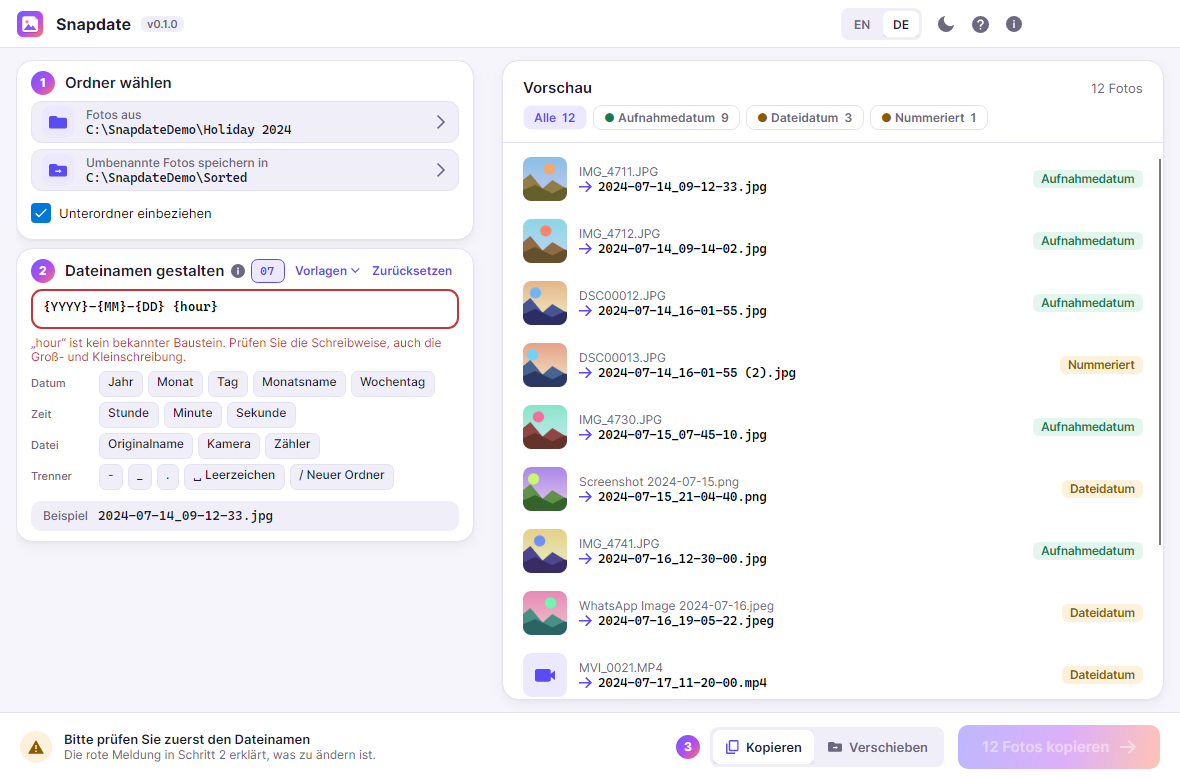
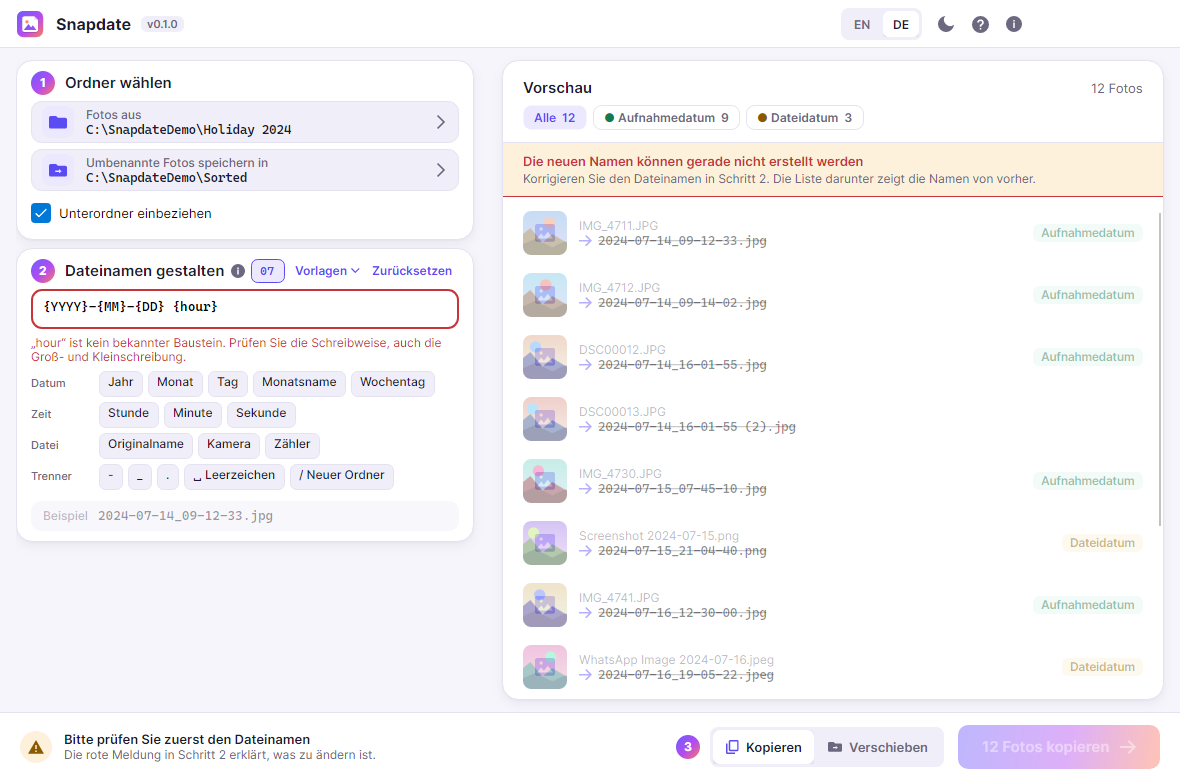
fix(preview): mark the preview as outdated while the pattern is invalid (#9)
Dim the list, strike through the stale names and show a red note while the
file name pattern cannot be built; hide the Numbered tab until it is valid
again. Documentation screenshots show the new state.

diff --git a/tests/Snapdate.App.Tests/Headless/MainWindowTests.cs b/tests/Snapdate.App.Tests/Headless/MainWindowTests.cs
@@ -22,6 +22,9 @@ public sealed class MainWindowTests(HeadlessSession headless)
             .Where(t => t.Length > 0)
             .ToList();
 
+    private static bool IsShown(Window window, string text) =>
+        window.GetLogicalDescendants().OfType<TextBlock>().Any(t => t.Text == text && t.IsEffectivelyVisible);
+
     private Task RunOnUi(Action action) =>
         headless.Session.Dispatch(action, TestContext.Current.CancellationToken);
 
@@ -103,6 +106,128 @@ public sealed class MainWindowTests(HeadlessSession headless)
         vm.ToggleThemeCommand.Execute(null);
 
         Assert.Equal(1, services.Theme.Toggles);
+    });
+
+    [Fact]
+    public Task Invalid_pattern_marks_the_preview_stale_until_the_pattern_is_valid_again() => RunOnUi(async () =>
+    {
+        using var temp = new TempFolder();
+        temp.Photo("camera/a.jpg", new DateTime(2024, 7, 14, 15, 32, 8));
+        temp.Photo("camera/b.png", new DateTime(2024, 7, 15, 8, 0, 0));
+        var target = temp.Combine("sorted");
+        Directory.CreateDirectory(target);
+        var vm = new TestServices().CreateViewModel();
+        vm.SourceFolder = temp.Combine("camera");
+        await vm.ScanCompletion;
+        vm.TargetFolder = target;
+        vm.Pattern.Text = "{YYYY}-{MM}-{DD}";
+        Assert.False(vm.IsPreviewStale);
+        Assert.Equal("2024-07-14.jpg", vm.VisibleItems[0].NewName);
+
+        vm.Pattern.Text = "{YYYY}-{nope}";
+
+        Assert.True(vm.IsPreviewStale);
+        Assert.True(vm.ShowList, "The list stays so the user keeps orientation.");
+        Assert.Equal(2, vm.CountAll);
+        Assert.False(vm.CanRun);
+
+        vm.Pattern.Text = "{YYYY}{MM}{DD}";
+
+        Assert.False(vm.IsPreviewStale);
+        Assert.Equal("20240714.jpg", vm.VisibleItems[0].NewName);
+        Assert.True(vm.CanRun);
+    });
+
+    [Fact]
+    public Task Stale_preview_shows_a_hint_and_drops_the_numbered_filter() => RunOnUi(async () =>
+    {
+        using var temp = new TempFolder();
+        temp.Photo("camera/a.jpg", new DateTime(2024, 7, 14, 15, 32, 8));
+        var vm = new TestServices().CreateViewModel();
+        vm.SourceFolder = temp.Combine("camera");
+        await vm.ScanCompletion;
+        vm.TargetFolder = temp.Combine("sorted");
+        vm.Filter = PreviewFilter.Renamed;
+        var window = new MainWindow { DataContext = vm };
+        window.Show();
+
+        vm.Pattern.Text = "{YYYY}-{nope}";
+        Dispatcher.UIThread.RunJobs();
+
+        Assert.Equal(PreviewFilter.All, vm.Filter);
+        Assert.Contains(vm.L.PreviewStaleTitle, VisibleTexts(window));
+        Assert.Contains(vm.L.PreviewStaleBody, VisibleTexts(window));
+
+        vm.Pattern.Text = "{YYYY}";
+        Dispatcher.UIThread.RunJobs();
+
+        Assert.False(IsShown(window, vm.L.PreviewStaleTitle));
+        window.Close();
+    });
+
+    [Fact]
+    public Task Stale_preview_follows_a_folder_change_and_empties_when_there_is_nothing_to_show() => RunOnUi(async () =>
+    {
+        using var temp = new TempFolder();
+        temp.Photo("one/a.jpg", new DateTime(2024, 7, 14, 15, 32, 8));
+        temp.Photo("two/b.jpg", new DateTime(2023, 1, 2, 3, 4, 5));
+        Directory.CreateDirectory(temp.Combine("empty"));
+        var vm = new TestServices().CreateViewModel();
+        vm.SourceFolder = temp.Combine("one");
+        await vm.ScanCompletion;
+        vm.TargetFolder = temp.Combine("sorted");
+        vm.Pattern.Text = "{YYYY}";
+        vm.Pattern.Text = "{YYYY}-{nope}";
+
+        vm.SourceFolder = temp.Combine("two");
+        await vm.ScanCompletion;
+
+        Assert.True(vm.IsPreviewStale);
+        Assert.Equal("2023.jpg", vm.VisibleItems.Single().NewName);
+
+        vm.SourceFolder = temp.Combine("empty");
+        await vm.ScanCompletion;
+
+        Assert.Empty(vm.VisibleItems);
+        Assert.Equal(0, vm.CountAll);
+        Assert.False(vm.IsPreviewStale);
+    });
+
+    [Fact]
+    public Task Stale_preview_hides_the_numbered_badge_on_rows() => RunOnUi(async () =>
+    {
+        using var temp = new TempFolder();
+        temp.Photo("one/a.jpg", new DateTime(2024, 7, 14, 15, 32, 8));
+        temp.Photo("one/b.jpg", new DateTime(2024, 7, 14, 15, 32, 8));
+        var vm = new TestServices().CreateViewModel();
+        vm.SourceFolder = temp.Combine("one");
+        await vm.ScanCompletion;
+        vm.TargetFolder = temp.Combine("sorted");
+        vm.Pattern.Text = "{YYYY}";
+        Assert.All(vm.VisibleItems, i => Assert.True(i.ShowBadge));
+
+        vm.Pattern.Text = "{nope}";
+
+        Assert.Contains(vm.VisibleItems, i => i.NewName.Contains("(2)"));
+        Assert.All(vm.VisibleItems, i => Assert.False(i.Badge == BadgeKind.Renamed && i.ShowBadge));
+    });
+
+    [Fact]
+    public Task Invalid_saved_pattern_at_startup_shows_a_stale_list_built_from_the_default_pattern() => RunOnUi(async () =>
+    {
+        using var temp = new TempFolder();
+        temp.Photo("one/a.jpg", new DateTime(2024, 7, 14, 15, 32, 8));
+        var services = new TestServices
+        {
+            Settings = new MemorySettings(new AppSettings { SourceFolder = temp.Combine("one"), Pattern = "{nope}" }),
+        };
+
+        var vm = services.CreateViewModel();
+        await vm.ScanCompletion;
+
+        Assert.True(vm.IsPreviewStale);
+        Assert.Equal("2024-07-14_15-32-08.jpg", vm.VisibleItems.Single().NewName);
+        Assert.False(vm.CanRun);
     });
 
     [Fact]

diff --git a/src/Snapdate.App/ViewModels/MainWindowViewModel.cs b/src/Snapdate.App/ViewModels/MainWindowViewModel.cs
@@ -8,6 +8,7 @@ using Snapdate.Application.Execution;
 using Snapdate.Application.Localization;
 using Snapdate.Application.Planning;
 using Snapdate.Application.Scanning;
+using Snapdate.Domain.Naming;
 using Snapdate.Domain.Planning;
 
 namespace Snapdate.App.ViewModels;
@@ -49,6 +50,7 @@ public sealed partial class MainWindowViewModel : ObservableObject
     private List<ScannedPhoto> _photos = [];
     private RenamePlan? _plan;
     private List<PreviewItemViewModel> _allItems = [];
+    private NamePattern? _lastValidPattern;
     private CancellationTokenSource? _scanCts;
     private CancellationTokenSource? _runCts;
     private ExecutionResult? _result;
@@ -193,6 +195,15 @@ public sealed partial class MainWindowViewModel : ObservableObject
     public bool ShowNoPhotos => SourceFolder is not null && Phase != Phase.Scanning && _photos.Count == 0;
 
     public bool ShowList => Phase != Phase.Scanning && _photos.Count > 0;
+
+    /// <summary>
+    /// True while the file name pattern is invalid: the list is kept (dimmed, so the user keeps their
+    /// orientation) but its "new names" come from the last valid pattern and must not look final.
+    /// </summary>
+    public bool IsPreviewStale => Pattern.HasError && ShowList;
+
+    /// <summary>Spoken text for the hint banner (screen readers read the Name of a live region).</summary>
+    public string PreviewStaleAnnouncement => $"{L.PreviewStaleTitle}. {L.PreviewStaleBody}";
 
     [ObservableProperty]
     public partial int ScanCount { get; private set; }
@@ -445,6 +456,7 @@ public sealed partial class MainWindowViewModel : ObservableObject
         OnPropertyChanged(nameof(TargetDisplay));
         OnPropertyChanged(nameof(ScanCountText));
         OnPropertyChanged(nameof(PhotosCountText));
+        OnPropertyChanged(nameof(PreviewStaleAnnouncement));
         OnPropertyChanged(nameof(AboutVersionText));
 
         if (Phase == Phase.Done && _result is not null)
@@ -588,20 +600,34 @@ public sealed partial class MainWindowViewModel : ObservableObject
         }
 
         var pattern = Pattern.Pattern;
-        if (pattern is not null && SourceFolder is not null && _photos.Count > 0)
+        if (pattern is not null)
+        {
+            _lastValidPattern = pattern;
+        }
+
+        // While the pattern is invalid the list is rebuilt from the last valid one (so it still matches the
+        // chosen folder) and the view dims it; see IsPreviewStale.
+        // With no earlier valid pattern (invalid pattern saved from a previous session) the default one is used.
+        var effective = pattern ?? _lastValidPattern ?? NamePattern.Default;
+        if (effective is not null && SourceFolder is not null && _photos.Count > 0)
         {
             var problem = FolderCheck.Check(_services.FileSystem, SourceFolder, TargetFolder, IncludeSubfolders);
             var target = problem == FolderProblem.None ? TargetFolder : null;
-            _plan = _planner.Build(_photos, pattern, L.Culture, SourceFolder, target, Mode);
-            _allItems = _plan.Items.Select(i => new PreviewItemViewModel(i, L, _services.Thumbnails)).ToList();
-            ExampleName = _allItems[0].NewName;
+            _plan = _planner.Build(_photos, effective, L.Culture, SourceFolder, target, Mode);
+            _allItems = _plan.Items.Select(i => new PreviewItemViewModel(i, L, _services.Thumbnails, hideNumbered: pattern is null)).ToList();
+            if (pattern is not null)
+            {
+                ExampleName = _allItems[0].NewName;
+            }
         }
         else
         {
+            // No folder or no photos: nothing to show, whatever the pattern says. Old rows are only kept
+            // (above) when the pattern alone is invalid.
             _plan = null;
+            _allItems = [];
             if (pattern is not null)
             {
-                _allItems = [];
                 ExampleName = pattern.Render(PatternBuilderViewModel.SampleFacts, L.Culture).Replace('/', '\\') + ".jpg";
             }
         }
@@ -610,6 +636,14 @@ public sealed partial class MainWindowViewModel : ObservableObject
         CountCamera = _allItems.Count(i => i.Item.Photo.Date.IsFromMetadata);
         CountFile = CountAll - CountCamera;
         CountRenamed = _allItems.Count(i => i.Item.WasRenamed);
+
+        // "Numbered" depends on the pattern (duplicates get (2), (3) ...), so it makes no claim while the
+        // pattern is invalid; camera/file date counts do not depend on it and stay.
+        if (Pattern.HasError && Filter == PreviewFilter.Renamed)
+        {
+            Filter = PreviewFilter.All;
+        }
+
         ApplyFilter();
         RefreshPreviewState();
         UpdateStatus();
@@ -630,6 +664,7 @@ public sealed partial class MainWindowViewModel : ObservableObject
         OnPropertyChanged(nameof(ShowScanning));
         OnPropertyChanged(nameof(ShowNoPhotos));
         OnPropertyChanged(nameof(ShowList));
+        OnPropertyChanged(nameof(IsPreviewStale));
     }
 
     private void UpdateStatus()

diff --git a/tools/Snapdate.AssetGen/ScreenshotRenderer.cs b/tools/Snapdate.AssetGen/ScreenshotRenderer.cs
@@ -99,6 +99,13 @@ internal static class ScreenshotRenderer
                         Wait(vm.ScanCompletion);
                         vm.TargetFolder = Path.Combine(DemoRoot, "Sorted");
                     });
+                    Shoot(dir, $"05-pattern-error-{suffix}", ci, thumbnails, vm =>
+                    {
+                        vm.SourceFolder = source;
+                        Wait(vm.ScanCompletion);
+                        vm.TargetFolder = Path.Combine(DemoRoot, "Sorted");
+                        vm.Pattern.Text = "{YYYY}-{MM}-{DD} {hour}";
+                    });
                 }
 
                 Avalonia.Application.Current!.RequestedThemeVariant = ThemeVariant.Light;
@@ -118,13 +125,6 @@ internal static class ScreenshotRenderer
                     Wait(vm.ScanCompletion);
                     vm.TargetFolder = target;
                     vm.Pattern.Text = "{YYYY}/{MM}/{YYYY}-{MM}-{DD} {name}";
-                });
-                Shoot(dir, "05-pattern-error-light", ci, thumbnails, vm =>
-                {
-                    vm.SourceFolder = source;
-                    Wait(vm.ScanCompletion);
-                    vm.TargetFolder = target;
-                    vm.Pattern.Text = "{YYYY}-{MM}-{DD} {hour}";
                 });
                 Shoot(dir, "06-move-light", ci, thumbnails, vm =>
                 {

diff --git a/src/Snapdate.App/ViewModels/PreviewItemViewModel.cs b/src/Snapdate.App/ViewModels/PreviewItemViewModel.cs
@@ -21,7 +21,7 @@ public sealed partial class PreviewItemViewModel : ObservableObject
     private readonly ThumbnailLoader? _thumbnails;
     private bool _thumbnailRequested;
 
-    public PreviewItemViewModel(RenameItem item, LocalizedStrings l, ThumbnailLoader? thumbnails)
+    public PreviewItemViewModel(RenameItem item, LocalizedStrings l, ThumbnailLoader? thumbnails, bool hideNumbered = false)
     {
         _thumbnails = thumbnails;
         Item = item;
@@ -41,7 +41,9 @@ public sealed partial class PreviewItemViewModel : ObservableObject
             _ => l.TipRenamed,
         };
         IsVideo = SupportedFormats.Videos.Contains(item.Photo.Extension);
-        Accessible = $"{OriginalName} → {NewName}, {BadgeText}";
+        // "Numbered" depends on the pattern; while it is invalid the row makes no such claim.
+        ShowBadge = !(hideNumbered && Badge == BadgeKind.Renamed);
+        Accessible = ShowBadge ? $"{OriginalName} → {NewName}, {BadgeText}" : $"{OriginalName} → {NewName}";
     }
 
     public RenameItem Item { get; }
@@ -55,6 +57,8 @@ public sealed partial class PreviewItemViewModel : ObservableObject
     public bool IsCameraBadge => Badge == BadgeKind.Camera;
 
     public bool IsWarningBadge => Badge != BadgeKind.Camera;
+
+    public bool ShowBadge { get; }
 
     public string BadgeText { get; }
 

diff --git a/src/Snapdate.App/Localization/LocalizedStrings.cs b/src/Snapdate.App/Localization/LocalizedStrings.cs
@@ -190,6 +190,10 @@ public sealed class LocalizedStrings(CultureInfo culture)
 
     public string ProblemPatternHint => Get(nameof(ProblemPatternHint));
 
+    public string PreviewStaleTitle => Get(nameof(PreviewStaleTitle));
+
+    public string PreviewStaleBody => Get(nameof(PreviewStaleBody));
+
     public string ProblemNoPhotos => Get(nameof(ProblemNoPhotos));
 
     public string StatusNothingChanged => Get(nameof(StatusNothingChanged));

diff --git a/CHANGELOG.md b/CHANGELOG.md
@@ -21,6 +21,7 @@ and this project adheres to [Semantic Versioning](https://semver.org/spec/v2.0.0
 - 📖 User guides in English and German with screenshots and diagrams.
 
 ### Fixed
+- 👀 While the file name pattern is invalid, the preview no longer keeps showing the previous names as if they were current: the list is dimmed with the new names struck through, a red note explains that the names can't be built right now, and the "Numbered" tab is hidden until the pattern is valid again (#9).
 - 🪟 The title bar now behaves like a normal Windows title bar: drag it to move the window, double-click to maximise or restore, and use snap layouts. The system window title no longer shows on top of the Snapdate logo.
 
 ### Security

diff --git a/docs/user-guide.de.md b/docs/user-guide.de.md
@@ -145,6 +145,13 @@ erklärt in einfachen Worten, was zu tun ist:
 
 ![Eine freundliche Fehlermeldung](images/de/05-pattern-error-light.png)
 
+Solange der Dateiname nicht verwendet werden kann, ist die Vorschau rechts
+abgeblendet, die neuen Namen sind durchgestrichen und ein roter Hinweis sagt,
+dass die Namen gerade nicht erstellt werden können. Die Liste bleibt stehen,
+damit Sie nicht den Überblick verlieren. Korrigieren Sie den Dateinamen, und
+die Vorschau aktualisiert sich von selbst. Der Knopf **Kopieren** bleibt bis
+dahin aus.
+
 ---
 
 ## 📋 5. Schritt 3 — Kopieren oder verschieben

diff --git a/docs/user-guide.en.md b/docs/user-guide.en.md
@@ -138,6 +138,11 @@ words what to fix:
 
 ![A friendly error message](images/en/05-pattern-error-light.png)
 
+While the file name can't be used, the preview on the right is dimmed, the new
+names are struck through and a red note says the names can't be built right now.
+The list stays so you don't lose your place. Fix the file name and the preview
+updates by itself. The **Copy** button stays off until then.
+
 ---
 
 ## 📋 5. Step 3 — Copy or move
